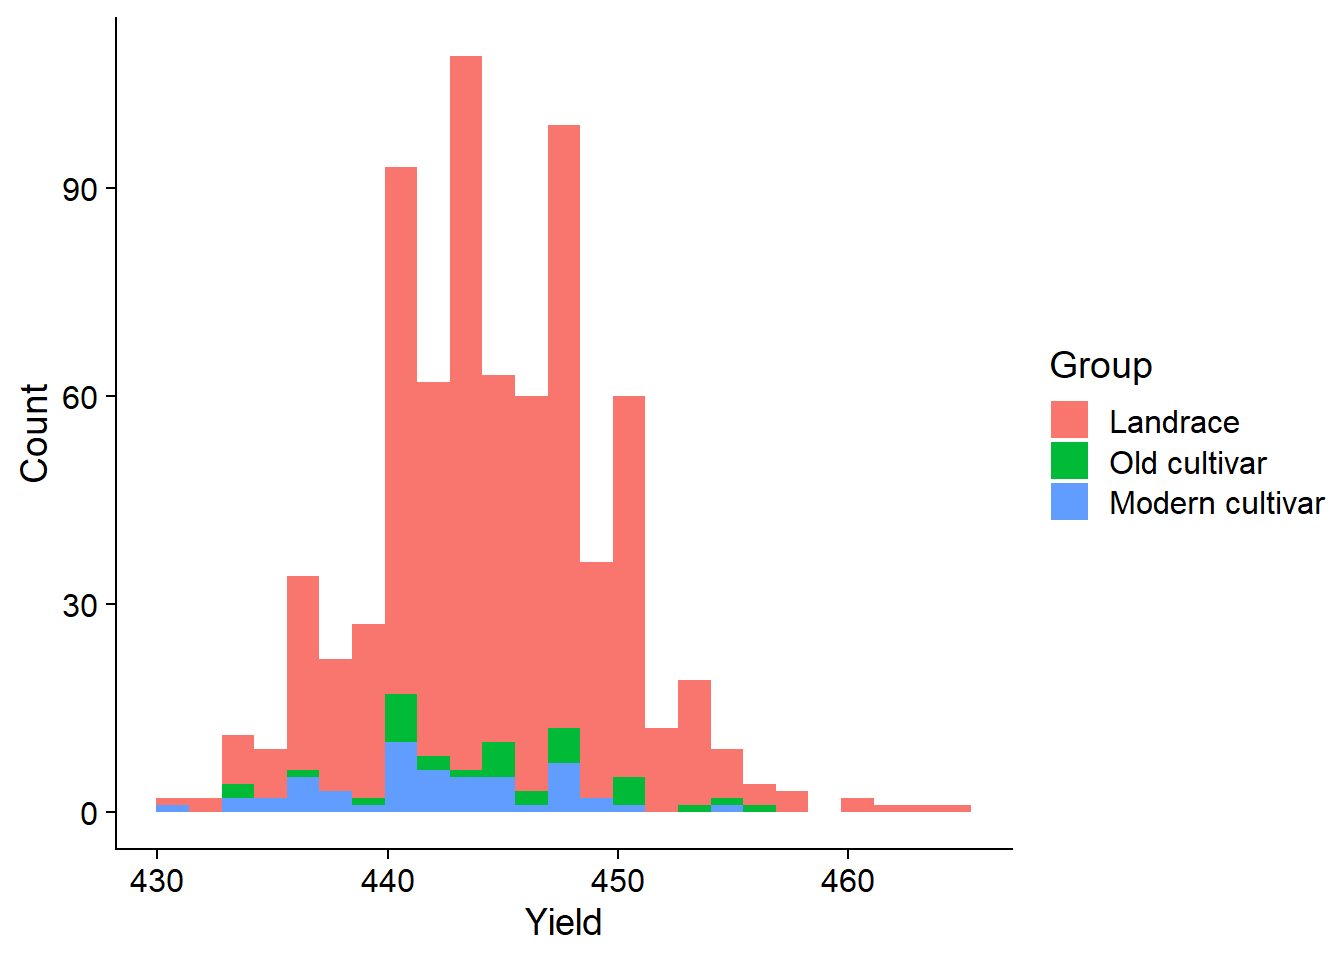
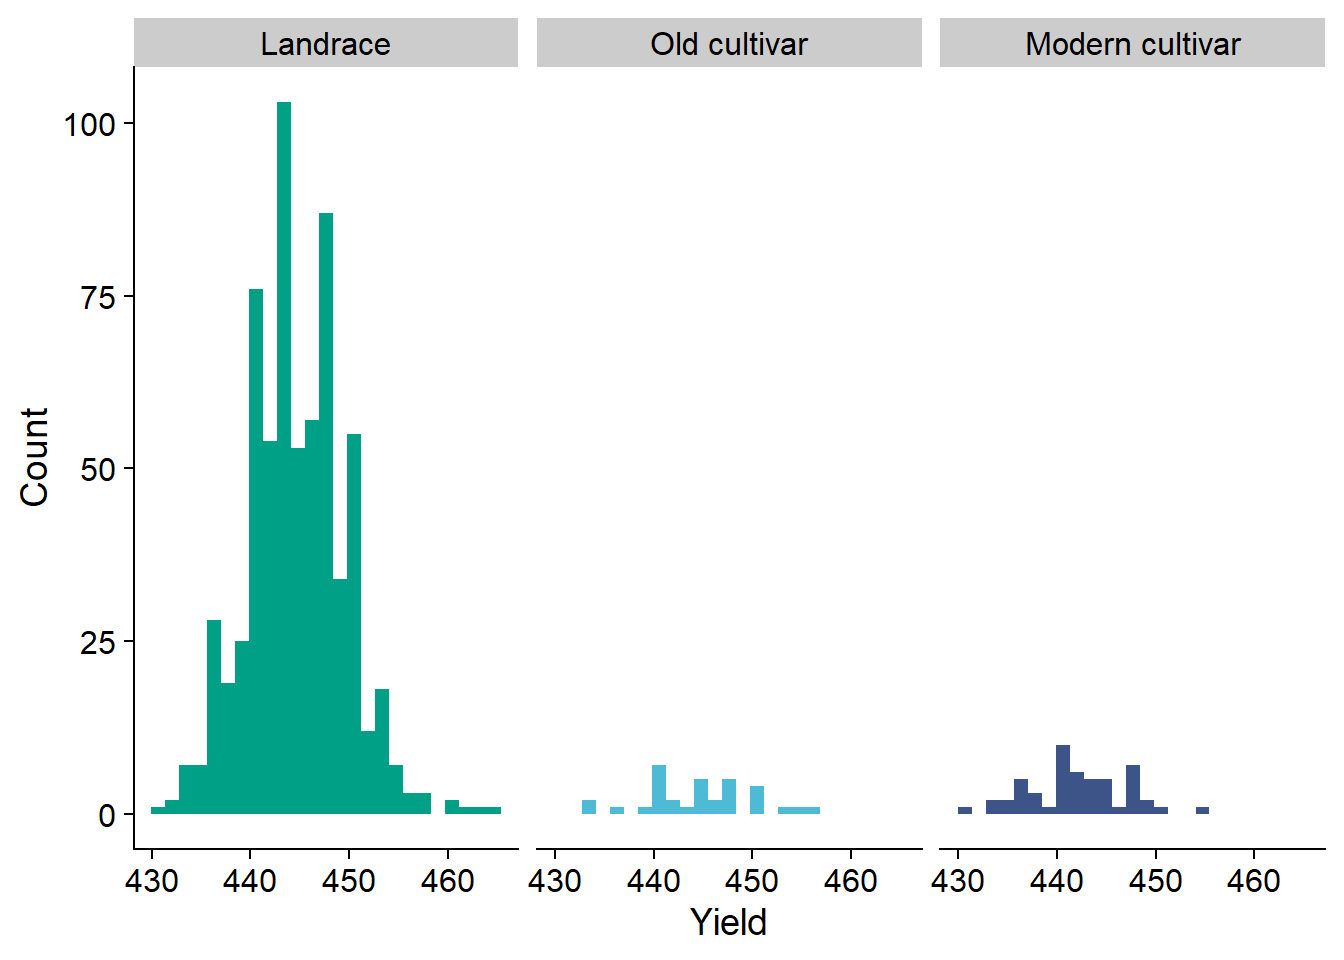
Build site.

diff --git a/docs/yield_link.html b/docs/yield_link.html
@@ -504,16 +504,16 @@ This reproducible <a href="http://rmarkdown.rstudio.com">R Markdown</a> analysis
 <div class="panel panel-default">
 <div class="panel-heading">
 <p class="panel-title">
-<a data-toggle="collapse" data-parent="#workflowr-checks" href="#strongRepositoryversionstrongahrefhttpsgithubcomphilippbayerRgeneanalysistree5b31dccfdb51d85b6effdc8fe6a0c15cea1260a0targetblank5b31dcca"> <span class="glyphicon glyphicon-ok text-success" aria-hidden="true"></span> <strong>Repository version:</strong> <a href="https://github.com/philippbayer/R_gene_analysis/tree/5b31dccfdb51d85b6effdc8fe6a0c15cea1260a0" target="_blank">5b31dcc</a> </a>
+<a data-toggle="collapse" data-parent="#workflowr-checks" href="#strongRepositoryversionstrongahrefhttpsgithubcomphilippbayerRgeneanalysistree77b56332ea1fca0a8c718ae7879eb877f6c2a5e6targetblank77b5633a"> <span class="glyphicon glyphicon-ok text-success" aria-hidden="true"></span> <strong>Repository version:</strong> <a href="https://github.com/philippbayer/R_gene_analysis/tree/77b56332ea1fca0a8c718ae7879eb877f6c2a5e6" target="_blank">77b5633</a> </a>
 </p>
 </div>
[2 lines of base64/hex data omitted]
 <div class="panel-body">
 <p>
 Great! You are using Git for version control. Tracking code development and connecting the code version to the results is critical for reproducibility.
 </p>
 <p>
-The results in this page were generated with repository version <a href="https://github.com/philippbayer/R_gene_analysis/tree/5b31dccfdb51d85b6effdc8fe6a0c15cea1260a0" target="_blank">5b31dcc</a>. See the <em>Past versions</em> tab to see a history of the changes made to the R Markdown and HTML files.
+The results in this page were generated with repository version <a href="https://github.com/philippbayer/R_gene_analysis/tree/77b56332ea1fca0a8c718ae7879eb877f6c2a5e6" target="_blank">77b5633</a>. See the <em>Past versions</em> tab to see a history of the changes made to the R Markdown and HTML files.
 </p>
 <p>
 Note that you need to be careful to ensure that all relevant files for the analysis have been committed to Git prior to generating the results (you can use <code>wflow_publish</code> or <code>wflow_git_commit</code>). workflowr only checks the R Markdown file, but you know if there are other scripts or data files that it depends on. Below is the status of the Git repository when the results were generated:
@@ -601,6 +601,40 @@ Message
 </tr>
 </thead>
 <tbody>
+<tr>
+<td>
+Rmd
+</td>
+<td>
+<a href="https://github.com/philippbayer/R_gene_analysis/blob/77b56332ea1fca0a8c718ae7879eb877f6c2a5e6/analysis/yield_link.Rmd" target="_blank">77b5633</a>
+</td>
+<td>
+Philipp Bayer
+</td>
+<td>
+2020-11-18
+</td>
+<td>
+wflow_publish(“analysis/yield_link.Rmd”)
+</td>
+</tr>
+<tr>
+<td>
+html
+</td>
+<td>
+<a href="https://rawcdn.githack.com/philippbayer/R_gene_analysis/f0548a48483159023091b3321bc62423392b3672/docs/yield_link.html" target="_blank">f0548a4</a>
+</td>
+<td>
+Philipp Bayer
+</td>
+<td>
+2020-11-18
+</td>
+<td>
+Build site.
+</td>
+</tr>
 <tr>
 <td>
 Rmd
@@ -1662,7 +1696,10 @@ yield_country_nbs_joined_groups &lt;- yield_nbs_joined_groups %&gt;% inner_join(
 <pre class="r"><code>yield_country_nbs_joined_groups %&gt;% ggplot(aes(x=presences.x, fill=Group)) + 
   geom_histogram(bins=25) +
   xlab(&#39;Yield&#39;) +
-  ylab(&#39;Count&#39;)</code></pre>
+  ylab(&#39;Count&#39;) +
+  facet_wrap(~Group) +
+  scale_fill_manual(values = col_list) +
+  theme(legend.position = &quot;none&quot;)</code></pre>
 <p><img src="figure/yield_link.Rmd/unnamed-chunk-39-1.png" width="672" style="display: block; margin: auto;" /></p>
 <pre class="r"><code>mixed.lmer &lt;- lmer(Yield2 ~ presences2 + (1|Group) + (1|Country), data=yield_country_nbs_joined_groups)
 summary(mixed.lmer)</code></pre>
